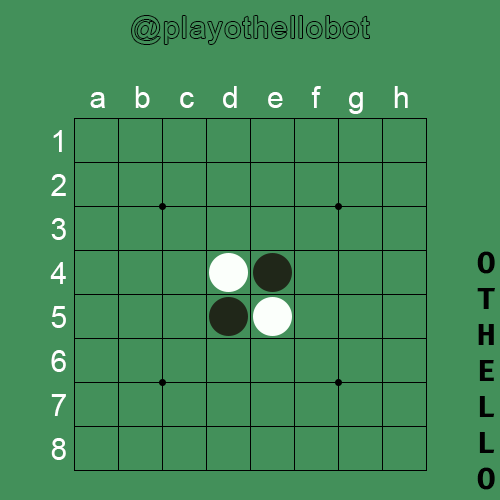
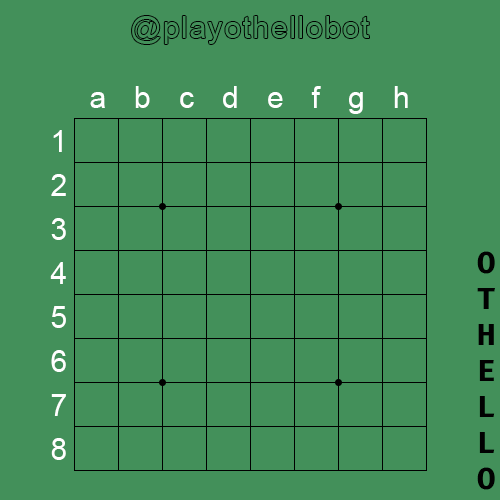
Remove 4 initial disks from board image

Changed region(s): [[0.42, 0.51, 0.6, 0.69]]

diff --git a/pkg/gifmaker/gifmaker.go b/pkg/gifmaker/gifmaker.go
@@ -52,10 +52,9 @@ func getGameFrames(movesSequence []coord.Coord, whiteStarts bool) []*image.Palet
 	game.SetTurn(whiteStarts)
 
 	res := make([]*image.Paletted, 0, len(movesSequence))
-	res = append(res, boardImage)
 	for _, move := range movesSequence {
-		game.PlaceDiskUnchecked(move)
 		res = append(res, getGameFrame(game))
+		game.PlaceDiskUnchecked(move)
 	}
 	return res
 }
